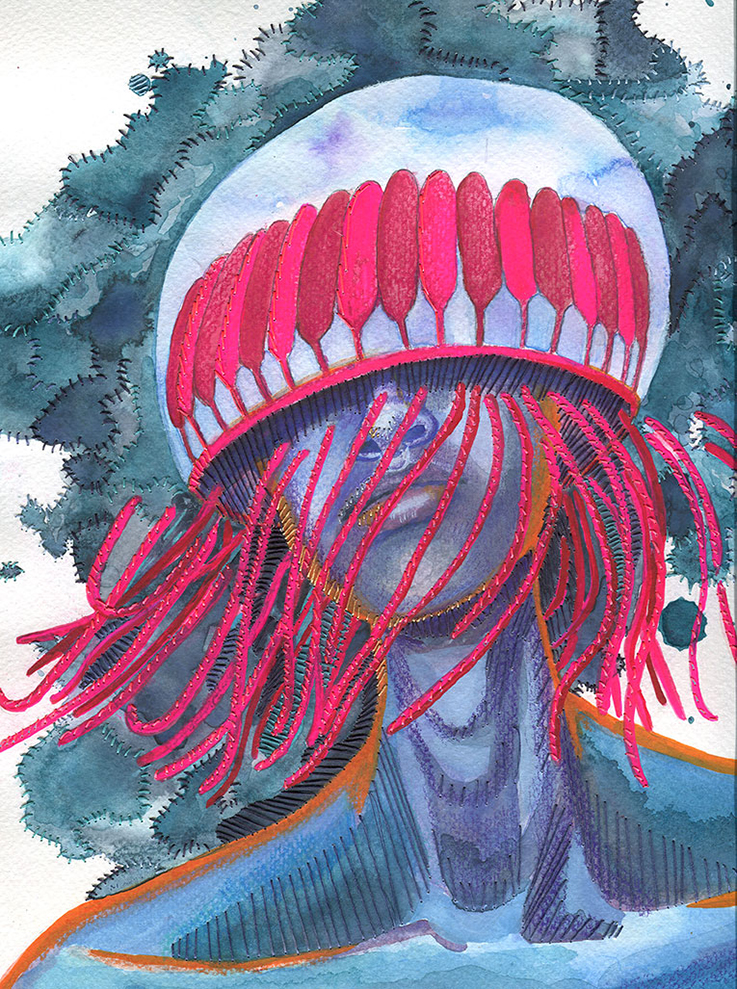
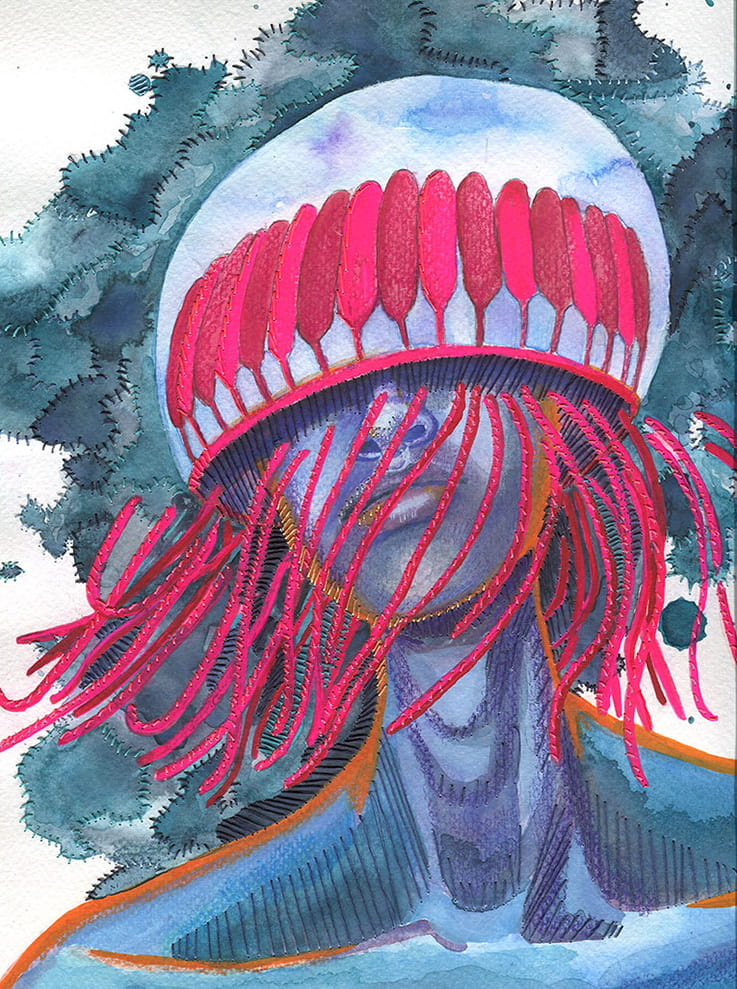
a whole lotta optimization

diff --git a/static/portfolio/oils/oil-paintings.js b/static/portfolio/oils/oil-paintings.js
@@ -28,7 +28,7 @@ export const oils = [
         customClass: "",
         title: "Ericka",
         description: "Oil on Canvas 16\"x20\"",
-        filename: "oils/Screen Shot 2019-09-28 at 1.56.49 PM.png"
+        filename: "oils/erika.jpg"
     },
     {
         id: 3,
@@ -49,7 +49,7 @@ export const oils = [
         customClass: "",
         title: "Skull",
         description: "Egg Tempera on Clay Board 8\"x10\"",
-        filename: "oils/skull-oil.png"
+        filename: "oils/skull-oil.jpg"
     },
     {
         id: 6,

diff --git a/static/portfolio/watercolor/watercolors.js b/static/portfolio/watercolor/watercolors.js
@@ -53,7 +53,7 @@ export const watercolors = [
         customClass: "",
         title: "The Girl",
         description: "Watercolor, charcoal, color pencil, thread 22\"x22\"",
-        filename: "watercolor/squished-face.png"
+        filename: "watercolor/squished-face.jpg"
     },
     {
         id: 8,

diff --git a/nuxt.config.js b/nuxt.config.js
@@ -107,7 +107,7 @@ export default {
   },
   sitemap: {
     path: '/sitemap.xml',
-    hostname: 'https://shellyweasel.com',
+    hostname: 'http://shellyweasel.com',
     cacheTime: 1000 * 60 * 15,
     gzip: true,
     generate: false,
